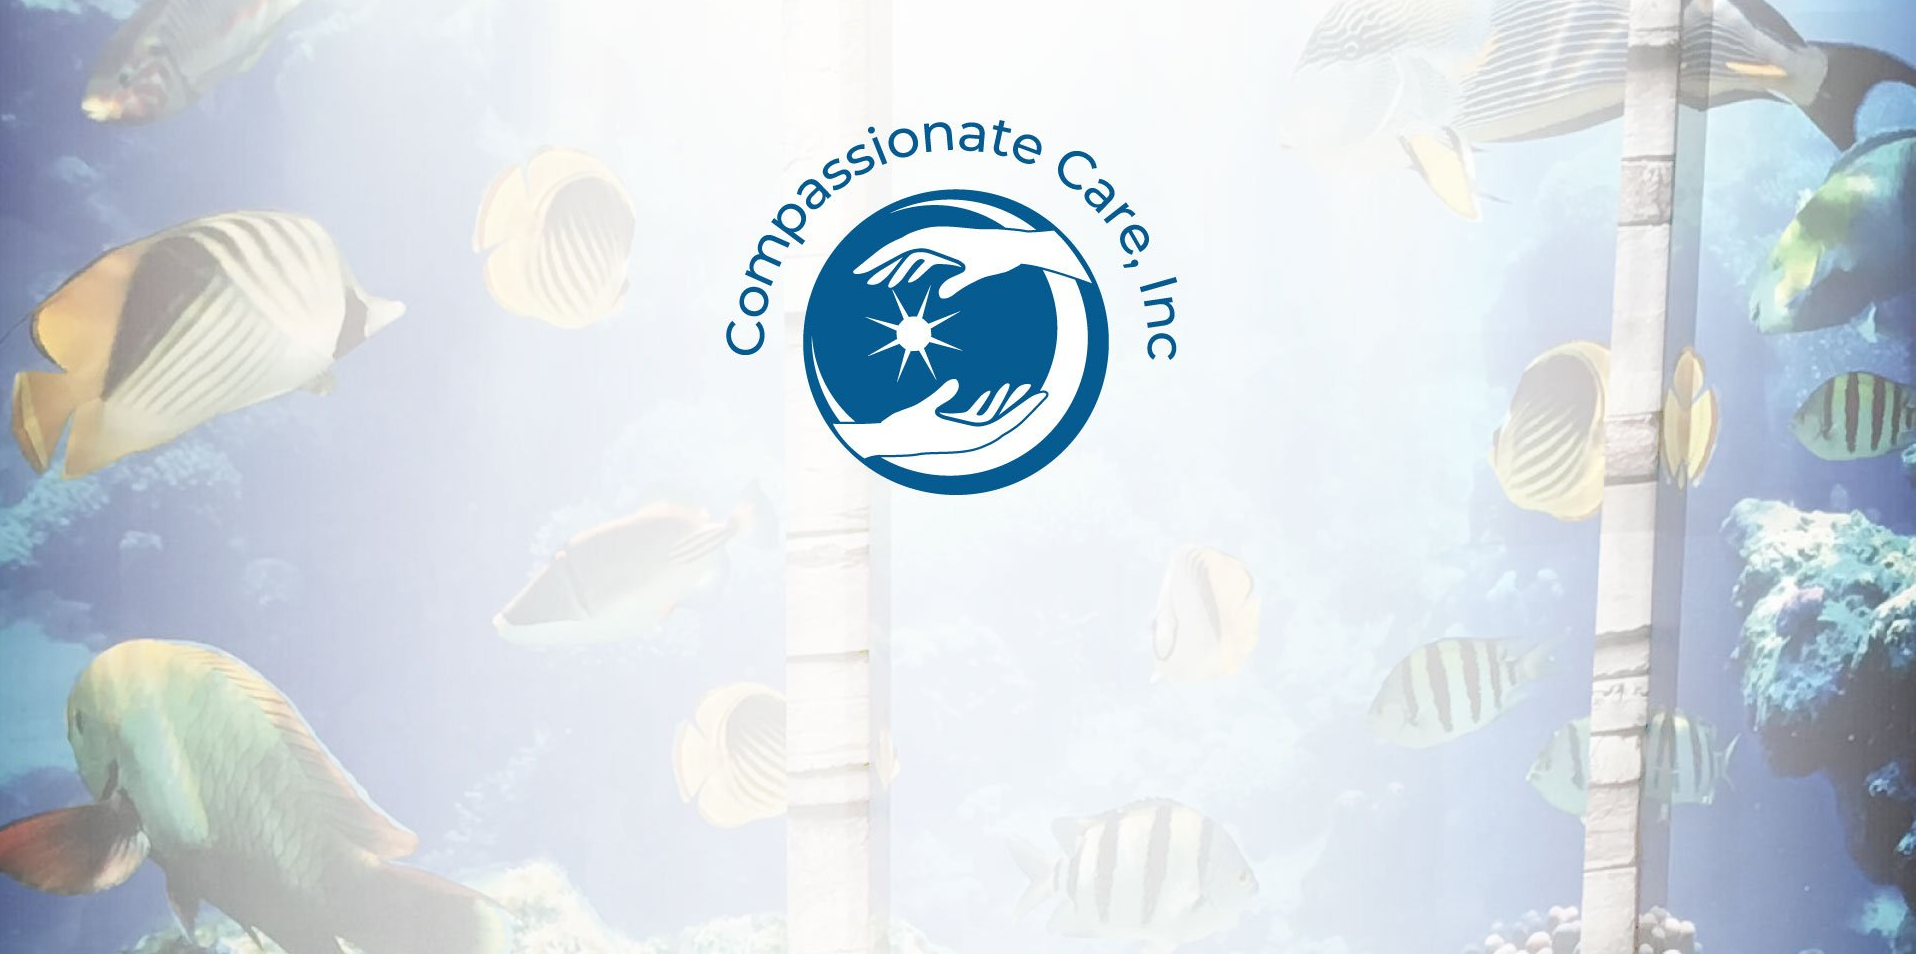
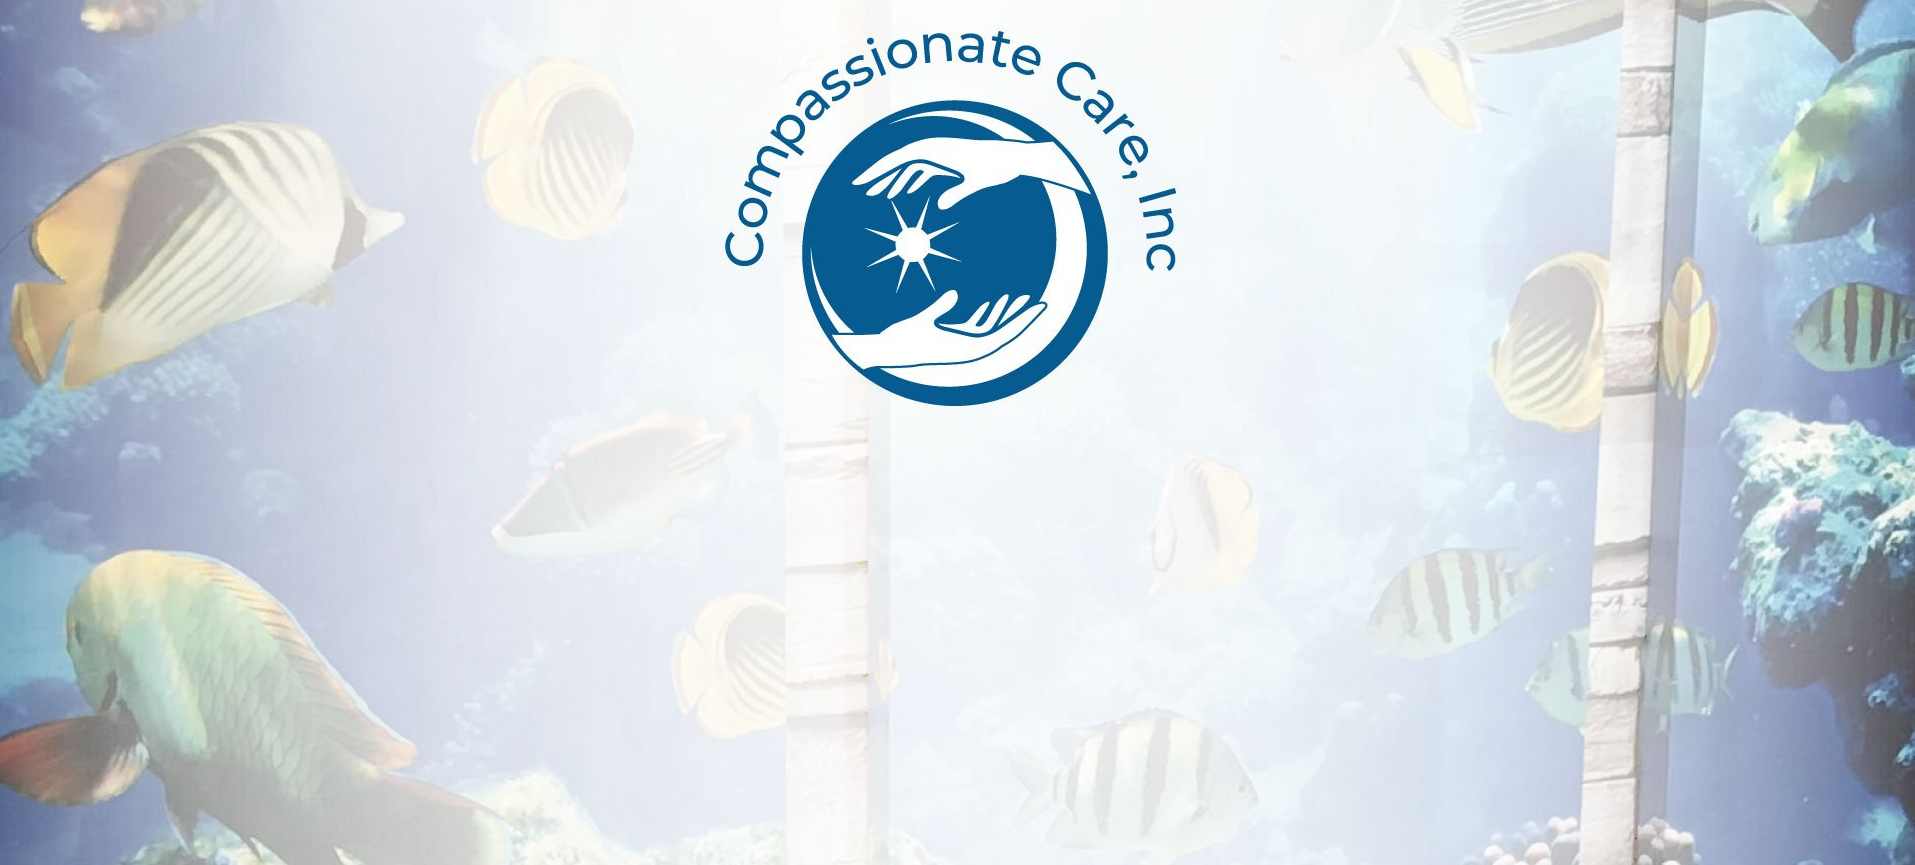
some media query shtuff

diff --git a/index.html b/index.html
@@ -49,7 +49,7 @@
             </p>
             <ul class="actions special stacked">
                 <li>
-                    <a href="#one" class="button primary large scrolly">New Patient Resources</a>
+                    <a href="#one" class="button primary large scrolly" id="newResource">New Patient Resources</a>
                 </li>
                 <!--<li>
                     <a href="https://www.facebook.com/DrYoungDNP" class="button large scrolly">Office Updates</a>

diff --git a/assets/css/main.css b/assets/css/main.css
@@ -3449,6 +3449,12 @@ body {
         line-height: 30px;
         padding-top: 4px;
     }
+    #banner {
+        height: 600px !important;
+    }
+    #newResource {
+        font-size: 14px;
+    }
 }
 @media screen and (max-width: 420px) {
     #bannerAbove {
